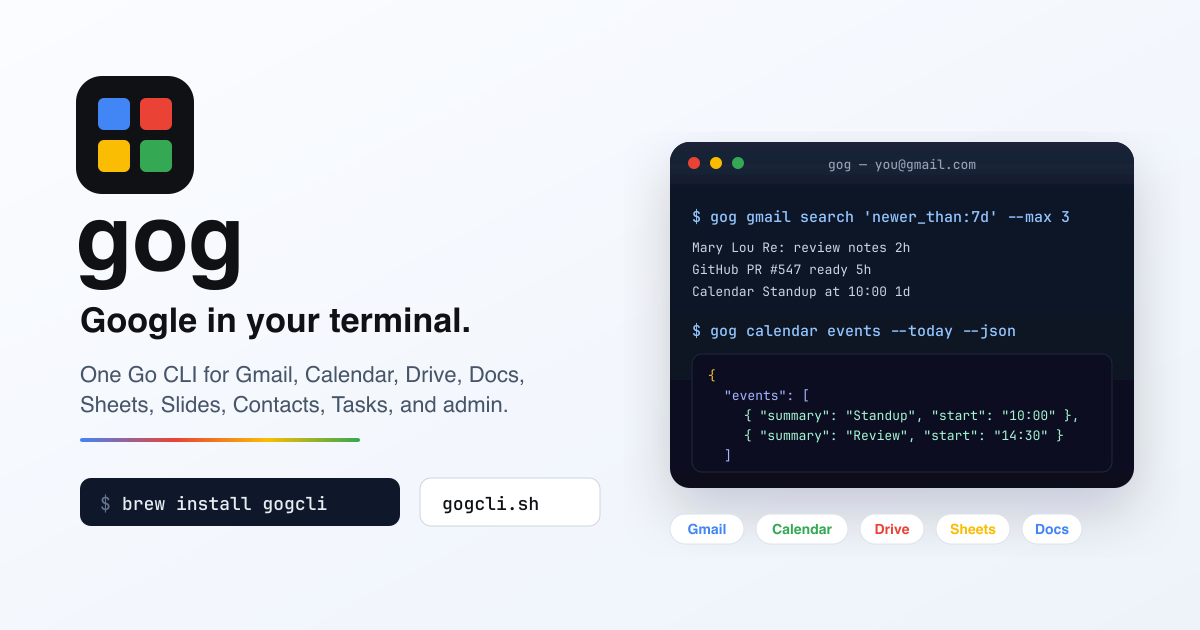
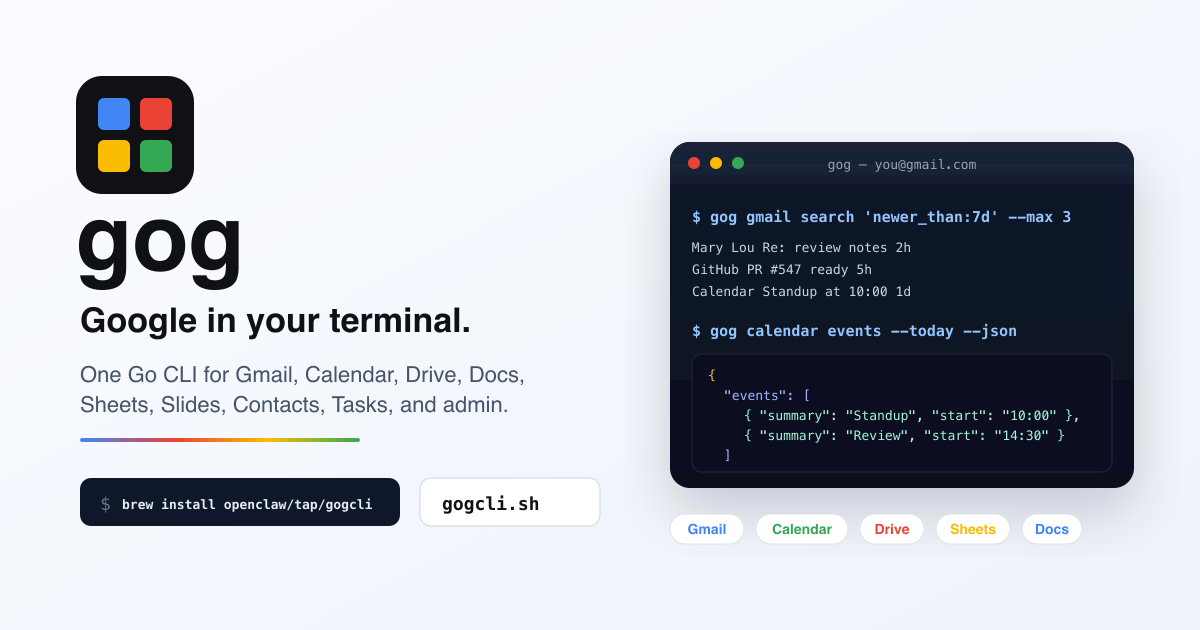
chore(release): close out v0.18.0

diff --git a/docs/RELEASING.md b/docs/RELEASING.md
@@ -16,14 +16,14 @@ scripts/verify-release.sh X.Y.Z
 
 Assumptions:
 - Repo: `openclaw/gogcli`
-- Tap repo: `../homebrew-tap` (tap: `steipete/tap`)
+- Tap repo: `../openclaw-homebrew-tap` (tap: `openclaw/tap`)
 - Homebrew formula name: `gogcli` (installs the `gog` binary)
 
 ## 0) Prereqs
 - Clean working tree on `main`.
 - Go toolchain installed (Go version comes from `go.mod`).
 - `make` works locally.
-- Access to the tap repo (e.g. `steipete/homebrew-tap`).
+- Access to the tap repo (e.g. `openclaw/homebrew-tap`).
 - For signed macOS release binaries (required):
   GitHub Actions secrets must be set, or the release workflow fails before
   producing Darwin artifacts:
@@ -79,7 +79,7 @@ gh workflow run release.yml -f tag=vX.Y.Z
 ```
 
 ## 5) Update (or add) the Homebrew formula
-In the tap repo (assumed sibling at `../homebrew-tap`), create/update `Formula/gogcli.rb`.
+In the tap repo (assumed sibling at `../openclaw-homebrew-tap`), create/update `Formula/gogcli.rb`.
 
 Recommended formula shape (download GitHub release assets; preserves macOS code signature):
 - `version "X.Y.Z"`
@@ -104,7 +104,7 @@ shasum -a 256 /tmp/gogcli.tar.gz
 
 Commit + push in the tap repo:
 ```sh
-cd ../homebrew-tap
+cd ../openclaw-homebrew-tap
 git add Formula/gogcli.rb
 git commit -m "gogcli vX.Y.Z"
 git push origin main
@@ -114,10 +114,10 @@ git push origin main
 ```sh
 brew update
 brew uninstall gogcli || true
-brew untap steipete/tap || true
-brew tap steipete/tap
-brew install steipete/tap/gogcli
-brew test steipete/tap/gogcli
+brew untap openclaw/tap || true
+brew tap openclaw/tap
+brew install openclaw/tap/gogcli
+brew test openclaw/tap/gogcli
 
 gog --help
 ```

diff --git a/docs/install.md b/docs/install.md
@@ -6,15 +6,15 @@ release builds use the tag, while local builds use `git describe`.
 ## Homebrew (macOS, Linux)
 
 ```bash
-brew install gogcli
+brew install openclaw/tap/gogcli
 gog --version
 ```
 
-The Homebrew formula lives in `steipete/homebrew-tap` and installs the `gog`
+The Homebrew formula lives in `openclaw/homebrew-tap` and installs the `gog`
 binary. Release verification should run:
 
 ```bash
-brew test steipete/tap/gogcli
+brew test openclaw/tap/gogcli
 gog --version
 ```
 
@@ -138,7 +138,7 @@ keyring health, refresh-token validity, and Workspace-specific failure modes.
 
 ## Updating
 
-- **Homebrew:** `brew upgrade gogcli`.
+- **Homebrew:** `brew upgrade openclaw/tap/gogcli`.
 - **Docker:** pull a new tag (`ghcr.io/openclaw/gogcli:vX.Y.Z`).
 - **GitHub release archives:** download the new tarball/ZIP and replace the
   binary.

diff --git a/CHANGELOG.md b/CHANGELOG.md
@@ -1,5 +1,11 @@
 # Changelog
 
+## 0.18.1 - Unreleased
+
+### Fixed
+
+- Release: verify the OpenClaw Homebrew tap checkout when checking `gogcli` formula assets.
+
 ## 0.18.0 - 2026-05-22
 
 ### Added

diff --git a/docs/quickstart.md b/docs/quickstart.md
@@ -12,7 +12,7 @@ profiles, read [Auth Clients](auth-clients.md) after this.
 ## 1. Install
 
 ```bash
-brew install gogcli
+brew install openclaw/tap/gogcli
 gog --version
 ```
 

diff --git a/README.md b/README.md
@@ -32,7 +32,7 @@ ZIPs, source builds, and headless/container keyring setup.
 ### Homebrew
 
 ```bash
-brew install gogcli
+brew install openclaw/tap/gogcli
 gog --version
 ```
 
